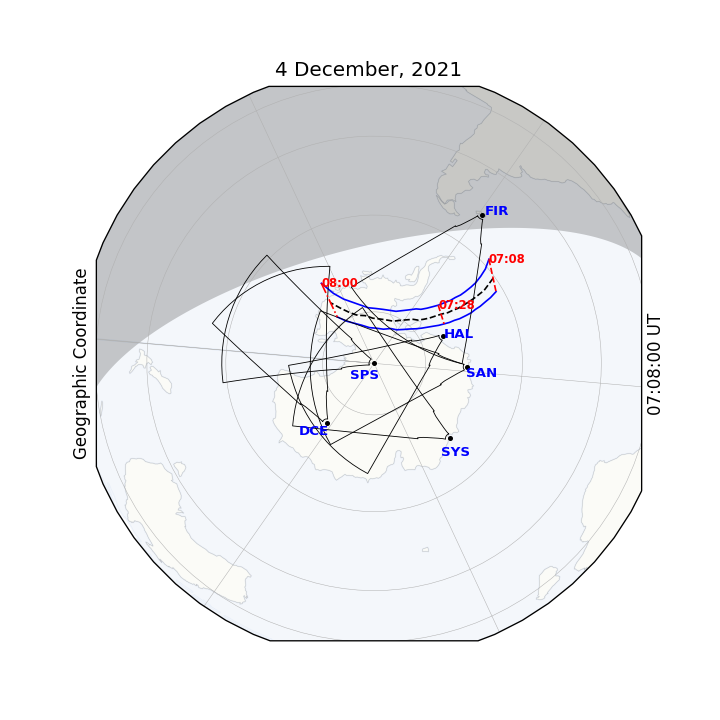
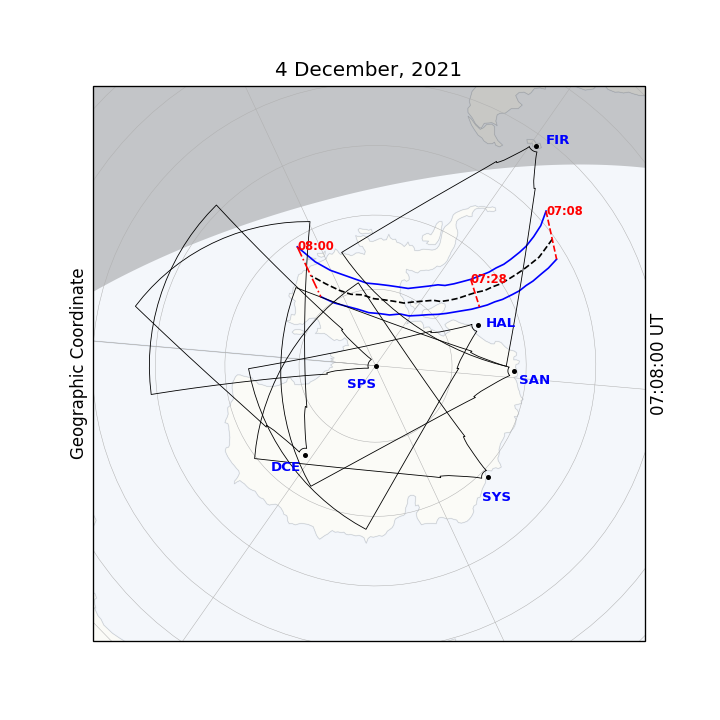
Update nightshades on plots

diff --git a/plot_eclipse_path.py b/plot_eclipse_path.py
@@ -104,7 +104,7 @@ def create_eclipse_path(fname, center, rads, title, north, pngfname, extend_lims
 def create_dec4_eclipse():
     fname, center, rads, title, north, pngfname = "data/Dec4Eclipse.csv", (-95, -90), ["fir", "hal", "san", "sys", "sps", "dce"],\
                             "4 December, 2021", False, "images/Dec4Eclipse_South.png"
-    create_eclipse_path(fname, center, rads, title, north, pngfname, extend_lims=[-90, -20])
+    create_eclipse_path(fname, center, rads, title, north, pngfname, extend_lims=[-90, -50])
     #center, rads, north, pngfname = (-95, 60), ["bks", "gbr", "kap"], True, "images/Dec4Eclipse_North.png"
     #create_eclipse_path(fname, center, rads, title, north, pngfname)
     return
